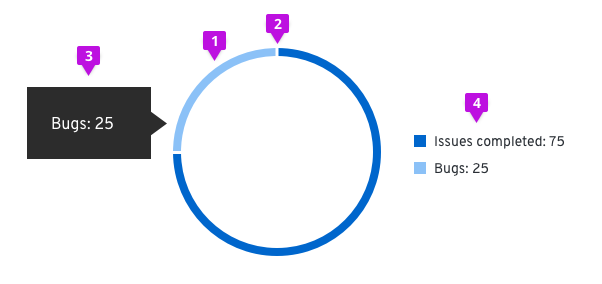
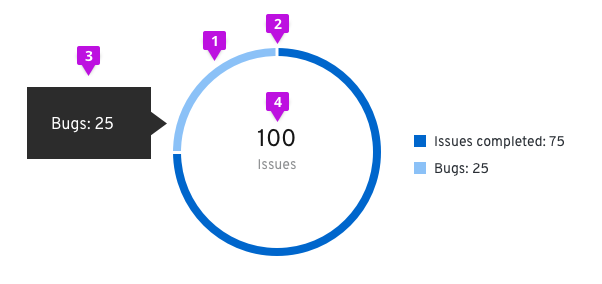
updated copy and images for chart usage guidelines

diff --git a/packages/patternfly-4/content/design-guidelines/usage-and-behavior/charts/design.md b/packages/patternfly-4/content/design-guidelines/usage-and-behavior/charts/design.md
@@ -3,20 +3,31 @@ path: "/design-guidelines/usage-and-behavior/charts"
 ---
 
 # Charts
-
-## General usage guidelines
 _Charts are only available in React_
 
-1. Title: We recommend that titles are always added above and left-aligned to charts.
-2. Axis labels and scale values: We recommend using tick marks to clearly mark scale values on the y-axis. The text for axis labels and scale values should be 12px font in standard text color. All scale values should be equally distributed across the axis and the axis label should fall outside the scale values, centered with the axis line.
-![Axis labels and scale values](./img/axis-labels.png)
-3. Legends: We recommend using legends when charts include more than one variable and therefore use more than one color. If space is not available to display names of horizontal and vertical axes, a legend must be added instead. The legend should list the colors that each variable obtains and the name of the variable. The text on the legend should be 14px size and standard text color. They can either be placed left-aligned to the right of the chart or centered below the chart.
-<!-- 4. Grid lines: We recommend using horizontal gridlines for vertical bar, line and area charts and vertical gridlines for horizontal charts. The line thickness should be 1px with #D2D2D2 color. By default, victory charts enable both horizontal and vertical lines, so a custom component needs to be added in order to override that. See here for information about adding custom gridlines (some link -- need to update). -->
+Use charts to visualize data in an application. The type of chart you use will depend on your use case and the type of data you need to display.
 
-## Types
+## Elements
+![Chart](./img/axis-labels.png)
+
+1. **Title**: Titles should be left-aligned and appear above your chart.
+2. **Axis labels and scale values**:  We recommend using tick marks to clearly mark scale values on the y-axis. The text for axis labels and scale values should be 12px font in standard text color. All scale values should be equally distributed across the axis and the axis label should fall outside the scale values, centered with the axis line.
+3. **Legends**: We recommend using legends when charts include more than one variable and therefore use more than one color. If space is not available to display names of horizontal and vertical axes, a legend must be added instead. The legend should list the colors that each variable obtains and the name of the variable. The text on the legend should be 14px size and standard text color. They can either be placed left-aligned to the right of the chart or centered below the chart.
+4. **Chart tooltip**: A tooltip will appear on hover over certain elements of a chart, like bars in a bar chart or segments in a donut chart. Chart tooltips should drill down to display the specific values related to the element the user is hovering over
+
+## Chart types
+- [Area charts](#area-chart): use to show trending over a continuous scale (usually time)
+- [Bar charts](#bar-chart): great way to show and compare categorical data
+  - [Stacked bar charts](#stacked-bar-chart)
+-  [Donut charts](#donut-chart): use to show the relationship of a set of values to a whole or progress completion as a percentages
+  - [Donut utilization](#donut-chart-utilization): use to show utilization fo ran object as a percentages
+  - [Donut utilization with threshold](#donut-chart-utilization-with-threshold)
+- [Line chart](#line-chart): use to compare several data sets, or to show data over a period of time
+- [Pie chart](#pie-chart): show percentages or proportional data
+
 
 ### Area chart
-An area chart is used to display metrics for continuous data. It offers an area fill for visual emphasis that function to indicate the cumulative data.
+An area chart is used to provide metrics for a single data point. While similar to a line chart in both form and function, it offers an area fill for visual emphasis. The area fill below the line also functions to indicate cumulative data.
 
 #### Usage
 The most common use case for area charts is to show trending over a continuous scale (usually time). Use this instead of a line chart when you need to provide more visual emphasis than a simple line chart would offer. It is possible to stack area charts to compare more than one continuous data sets. See [Line charts](#line-chart) for more information about them.
@@ -24,32 +35,32 @@ The most common use case for area charts is to show trending over a continuous s
 #### Example
 ![Area chart](./img/areachart.png)
 
-1. Data area fill: The area fill is presented below the data line. Data area fills use colors that conform with the [Colors for charts](/design-guidelines/styles/chart-colors).
-2. Interactive data points: Specific data points may be represented by dots on the line portion of the area chart. The tooltip will contain the data values for that specific point in time.
+1. **Data area fill**: The area fill is presented below the data line. Data area fills use colors that conform with the [Colors for charts](/design-guidelines/styles/chart-colors).
+2. **Chart tooltip**: Use the chart tooltip to drill into the data related to any data point provided on your area chart.
 
-<!--#### React component
-[Area chart](/documentation/react/components/areachart)-->
+#### React component
+[Area chart](/documentation/react/charts/chartarea)
 
 ### Bar chart
 
-Bar charts are used to easily display two variables, one on the horizontal x-axis and one on the vertical y-axis.
+Bar charts are used to visualize and compare categorical data.
+
+#### Usage
+Since bar charts differentiate by length, we recommend that in most cases they be used rather than donut or pie charts, which differentiate by angle and area. As a rule of thumb, bar charts are a great way to show and compare categorical data. If you want to show continuous data over time, you may consider using a [Line chart](#line-chart) instead. If you wish to show the percentage utilization ratio between used and available, you should check out the [Utilization bar chart pattern](/documentation/react/charts/chartdonututilization).
 
 #### Horizontal vs. vertical bar charts
 
 The orientation of bar charts is dependent on the data and space at hand. Any bar chart should be able to be displayed in either direction if applicable.
-
-#### Usage
-The benefit of using a bar chart is that discrete quantities of data can easily be compared visually. As long as each bar is labeled properly, it is possible to reorder the values without losing vital information. We recommend that bar charts are used for comparing quantities rather than donut or pie charts, which differentiate by angle and area. As a rule of thumb, bar charts are a great way to show and compare categorical data. If you want to show continuous data over time, you may consider using a [Line chart](#line-chart) or [Area chart](#area-chart) instead.
 
 #### Example
 ![Horizontal bar chart](./img/horizbarchart.png)
 
 ![Vertical bar chart](./img/vertbarchart.png)
 
-1. Bar: All bars should be the same width. The height of the bar represents its value. The spacing between bars should be equal as well, mimicking the axis value spacing. For recommendations on fill colors, see [Colors for charts](/design-guidelines/styles/chart-colors).
+1. **Bar**: All bars should be the same width. The height of the bar represents its value. The spacing between bars should be equal as well, mimicking the axis value spacing. For recommendations on fill colors, see [Colors for charts](/design-guidelines/styles/chart-colors).
 
-<!--#### React component
-[Bar chart](/documentation/react/components/barchart)-->
+#### React component
+[Bar chart](/documentation/react/charts/chartbar)
 
 ### Stacked bar charts
 
@@ -60,47 +71,48 @@ Stacked bar charts describe totals while allowing a degree of internal breakdown
 
 ![Vertical stacked bar chart](./img/vertstackedbarchart.png)
 
-1. Stacked bar: The first series name is represented by the topmost stacked bar, and the last series name is represented by the bottommost stacked bar. For recommendations on series colors, see [Colors for charts](/design-guidelines/styles/chart-colors).
+1. **Stacked bar**: The first series name is represented by the topmost stacked bar, and the last series name is represented by the bottommost stacked bar. For recommendations on series colors, see [Colors for charts](/design-guidelines/styles/chart-colors).
 
-<!--#### React component
-[Stacked bar chart](/documentation/react/components/stackchart)-->
+#### React component
+[Stacked bar chart](/documentation/react/charts/chartstack)
 
-### Donut charts
-Donut charts represent relative amounts that must add up to 100%.
+### Donut chart
+These are the most common use cases for donut charts:
+- Showing the relationship of a set of values to a whole
+- Showing utilization for an object as a percentage (with or without thresholds)
+
+If you need to compare one category to another, consider using a [Bar chart](#bar-chart).
 
 #### Usage
-These are the most common use cases for donut charts:
-  - Showing the relationship of a set of values to a whole
-  - Showing utilization for an object as a percentage (with or without thresholds)
+In donut charts, you can choose to use percentages or integer values to compare parts to the whole. When deciding which to use, consider the information that is most important to your user and what makes the most sense for your use case. For example, if a user knows they have 123 farm animals and they’re interested in knowing how many of those animals are cows, it probably makes more sense to use an integer value. If that same user is interested in knowing how much storage space they have left in their grain silo, a percentage might be better.
 
-Donut charts can use percentages or integer values to compare parts to the whole. Consider using a [Bar chart](#bar-chart) if you would like to compare one category to another. Decide whether percentages or integers is most compatible with your use case and make sure to be consistent throughout. We recommend displaying these values within the donut, see [Donut utilization](#donut-utilization) for styling. Don’t use more than six categories in total. We recommend that you use the [Colors for charts](/design-guidelines/styles/chart-colors) guidelines to represent your data when thresholds are not present.
 
+For donut charts, don’t try to represent more than six categories. We recommend using the [Colors for charts](/design-guidelines/styles/chart-colors) guidelines to represent your data when thresholds are not present.
+
+#### Example
 ![Donut chart](./img/donut-chart.png)
 
 1. **Segment fill**: We recommend using [Colors for charts] (/design-guidelines/styles/chart-colors) for different items within the donut chart.
 2. **Segment padding**:  Always provide 3px of padding between segments.
-3. **Chart tooltip**:  A tooltip will appear upon hover that states the segment name and value. Depending on the type of donut, the information may change.
-  - **Donut**: We recommend stating the segment name and the value being represented. For example, if the segment represents “Bugs,” and the value being represented is 25, your chart tooltip would state, “Bugs: 25.”
-  - **Donut utilization**: Only the utilization segment will allow for hover. We recommend stating the segment name and the utilization value being captured. For example, if the user is tracking GBps utilization, the chart tooltip would state “GBps utilization: 75%.”
-  - **Donut utilization with thresholds**: We recommend stating the threshold name, the segment name, and the value being represented. For example, if the threshold being met is “Danger,” and the segment represents “Storage capacity,” and the value being represented is 92%, your chart tooltip would state, “Danger: Storage capacity: 92%.”  We recommend stating the threshold name “at” the percentage the threshold begins (ex. Warning at 60%).
-4. **Legend**: In order to fulfill accessibility requirements, we recommend adding a legend to all donuts.
+3. **Chart tooltip**: A tooltip will appear upon hover that states the name of the segment and corresponding value. For example, if the segment represents “Bugs,” and the value being represented is 25, your chart tooltip would state, “Bugs: 25.”
+4. **Label**: When the Donut Chart is contained within a dashboard card, there is a label defining what the Donut Chart represents. The label may also represent the total value of the data set. If this optional representation is chosen, it should follow the format of [total numeric value] + [data set label]. The total numeric value cannot contain more than 14 characters. The data set label cannot contain more than 24 characters. They are to be centered within the donut and styled as shown. The label should be using 24px font in standard text color with 14px font underneath in secondary text color. If the label does not fit within the donut, place it outside of the donut and leave the center empty.
 
-<!--#### React component
-[Donut chart](/documentation/react/charts/donut)-->
+#### React component
+[Donut chart](/documentation/react/charts/chartdonut)
 
-### Donut utilization
+### Donut chart - Utilization
 ![Donut utilization](./img/donut-utilization.png) ![Donut utilization hover](./img/donut-utilization-hover.png)
 ![Donut utilization 2](./img/donut-utilization-2.png)
 
 1. **Unused segment fill**: The unused area of the donut chart will always remain at #EDEDED.
 2. **Used segment fill**: We recommend using #0066cc for the used area of the donut chart. See [Colors for charts](/design-guidelines/styles/chart-colors) for other recommended color options.
-3. **Utilization label**: Both percentages and whole numbers can be used to represent the utilization for donut charts. They are to be centered within the donut and styled as shown. The label should be using 24px font in standard text color with 14px font underneath in secondary text color.
-4. **Chart tooltip**: Since this is a utilization donut chart, the tooltip will display the percentage of data utilized.
+3. **Utilization label**: Both percentages and whole numbers can be used to represent the utilization.
+4. **Chart tooltip**: Since this is a utilization donut chart, the tooltip will display the percentage of data utilized. Chart tooltips only appear on hover over the utilization segment of the chart. We recommend stating the segment name and the utilization value being captured. For example, if the user is tracking GBps utilization, the chart tooltip would state “GBps utilization: 75%.”
 
-<!--#### React component
-[Donut utilization](/documentation/react/charts/donut-utilization)-->
+#### React component
+[Donut utilization](/documentation/react/charts/chartdonututilization)
 
-### Donut utilization with threshold
+### Donut chart - Utilization with threshold
 ![Donut utilization with threshold](./img/donut-utilization-with-threshold.png)
 
 1. **Threshold segment fill**: The outer segments of the chart are static and represent the thresholds for your use case. The example diagrams show utilization thresholds for a database and are used to let users know when they move from a safe zone into a danger zone. For threshold segments, use incremental shades of  grey starting at #EDEDED then to #D2D2D2 then to #BBBBBB. Provide 3px of padding between each segment.
@@ -112,10 +124,11 @@ Donut charts can use percentages or integer values to compare parts to the whole
 
 ![Donut utilization with threshold hover](./img/donut-utilization-with-threshold-hover.png)
 
-4. **Chart tooltip**: Both the threshold segments and utilization segment can be hovered over.
+4. **Chart tooltip**: Chart tooltips appear on hover for both threshold segments and utilization segments. We recommend stating the threshold name, the segment name, and the value being represented. For example, if the threshold being met is “Danger,” and the segment represents “Storage capacity,” and the value being represented is 92%, your chart tooltip would state, “Danger: Storage capacity: 92%.” We recommend stating the threshold name “at” the percentage the threshold begins (ex. Warning at 60%).
 
-<!--#### React component
-[Donut utilization](/documentation/react/charts/donut-utilization)-->
+#### React component
+[Donut utilization](/documentation/react/charts/chartdonututilization/#donut-utilization-chart-with-static-thresholds)
+
 
 ### Line chart
 
@@ -129,10 +142,10 @@ Multiple lines on the same chart allow the user to visualize relationships betwe
 #### Example
 ![Line chart](./img/linechart.png)
 
-1. Line: Line charts can optionally visually represent data points as dots on the line. If so, the same interaction that occurs when hovering over one in an [Area chart](#area-chart) will occur in line charts. For line colors, we recommend using the [Colors for charts](/design-guidelines/styles/chart-colors).
+1. **Line**: Line charts can optionally visually represent data points as dots on the line. If so, the same interaction that occurs when hovering over one in an [Area chart](#area-chart) will occur in line charts. For line colors, we recommend using the [Colors for charts](/design-guidelines/styles/chart-colors).
 
-<!--#### React component
-[Line chart](/documentation/react/components/linechart)-->
+### React component
+[Line chart](/documentation/react/charts/chartline)
 
 ### Pie chart
 
@@ -146,12 +159,22 @@ A pie chart may be the wrong choice when you need to compare categories to one a
 #### Example
 ![Pie chart](./img/piechart.png)
 
-1. Pie chart fill: We recommend that fill colors should be based on the [Colors for charts](/design-guidelines/styles/chart-colors).
+1. **Pie chart fill**: We recommend that fill colors should be based on the [Colors for charts](/design-guidelines/styles/chart-colors).
 
-<!--#### React component
-[Pie chart](/documentation/react/components/piechart)-->
+### React component
+[Pie chart](/documentation/react/charts/chartpie)
 
 ### Charts in cards
 If a chart lives in a card, the title of that chart will be placed on the header of that card instead of the chart. The rest of the chart guidelines should be followed for the chart itself.
 
 ![Chart on card](./img/chartoncard.png)
+
+### Brush and zoom
+The brush and zoom properties allow for magnification of an area, bar, line or stack chart. If desired, more advanced features can be added through [Victory](https://formidable.com/open-source/victory/guides/brush-and-zoom/).
+
+#### Example
+
+![Brush and zoom](./img/brush-and-zoom.png)
+
+1. **Window**: Click and drag to create a window around the section of the chart that you want to zoom in on
+2. **Magnified chart**: The portion selected will appear above the full chart view.
